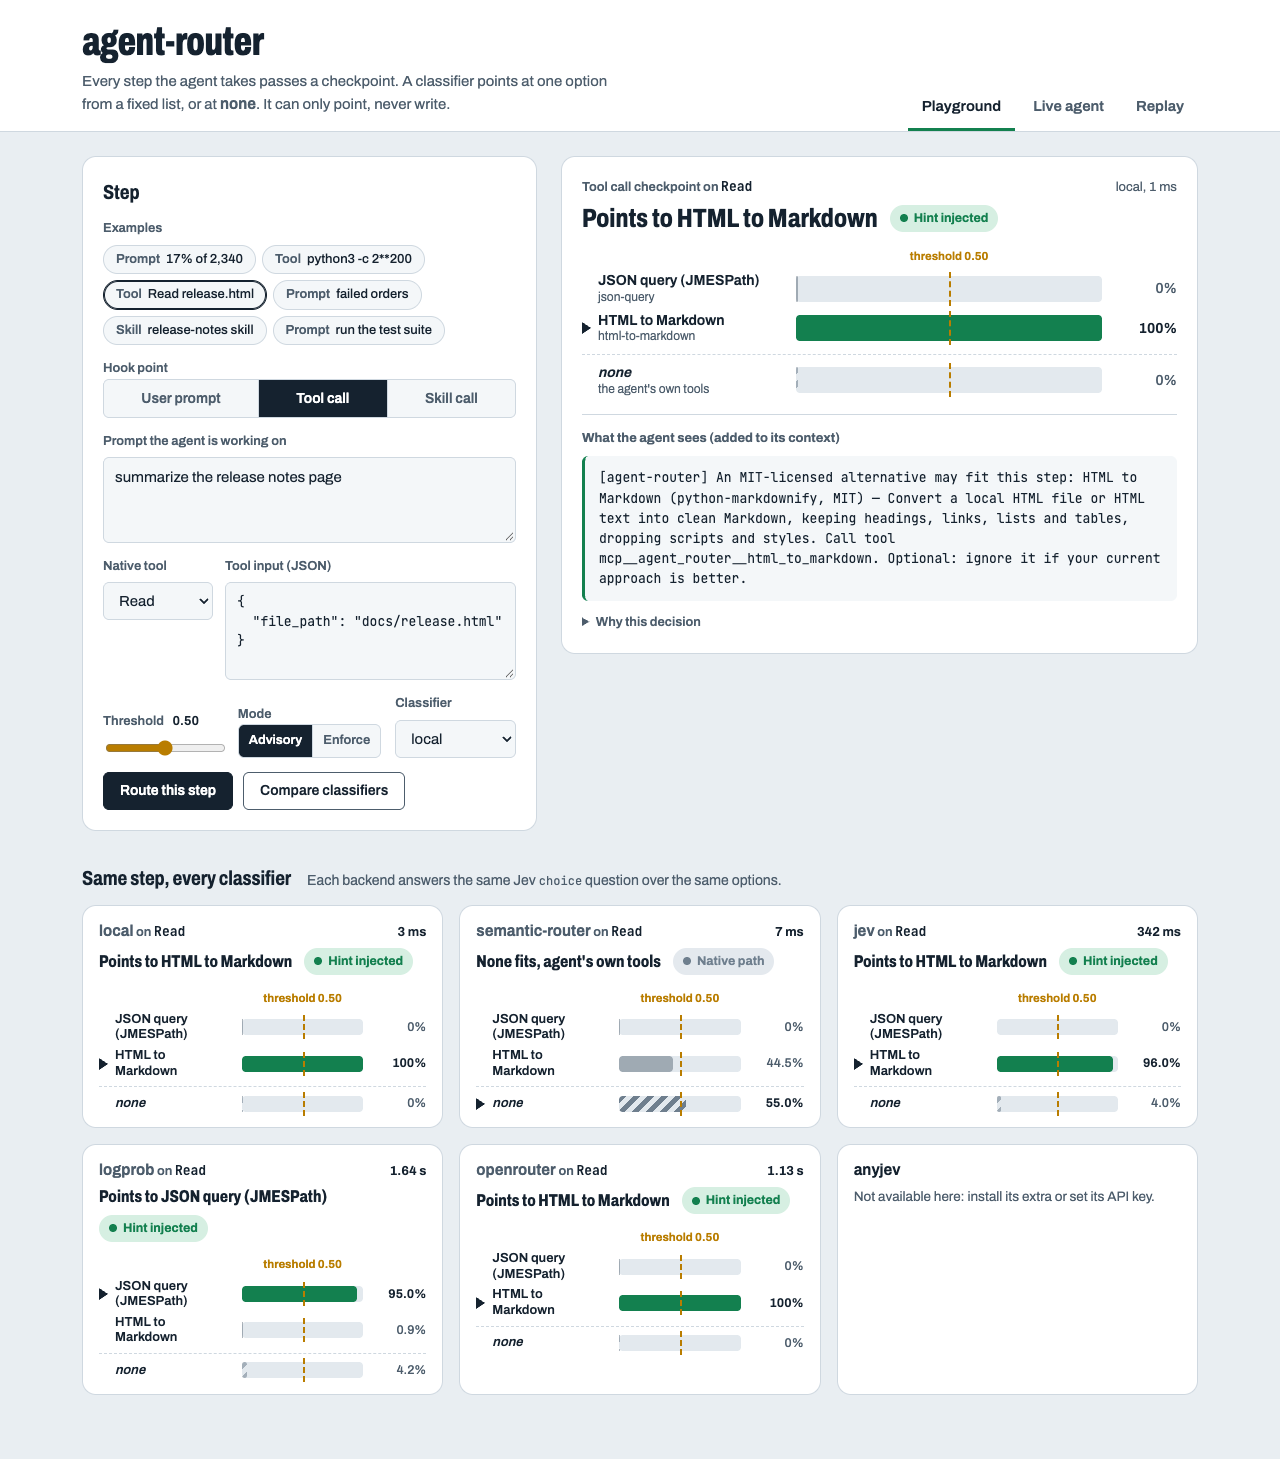
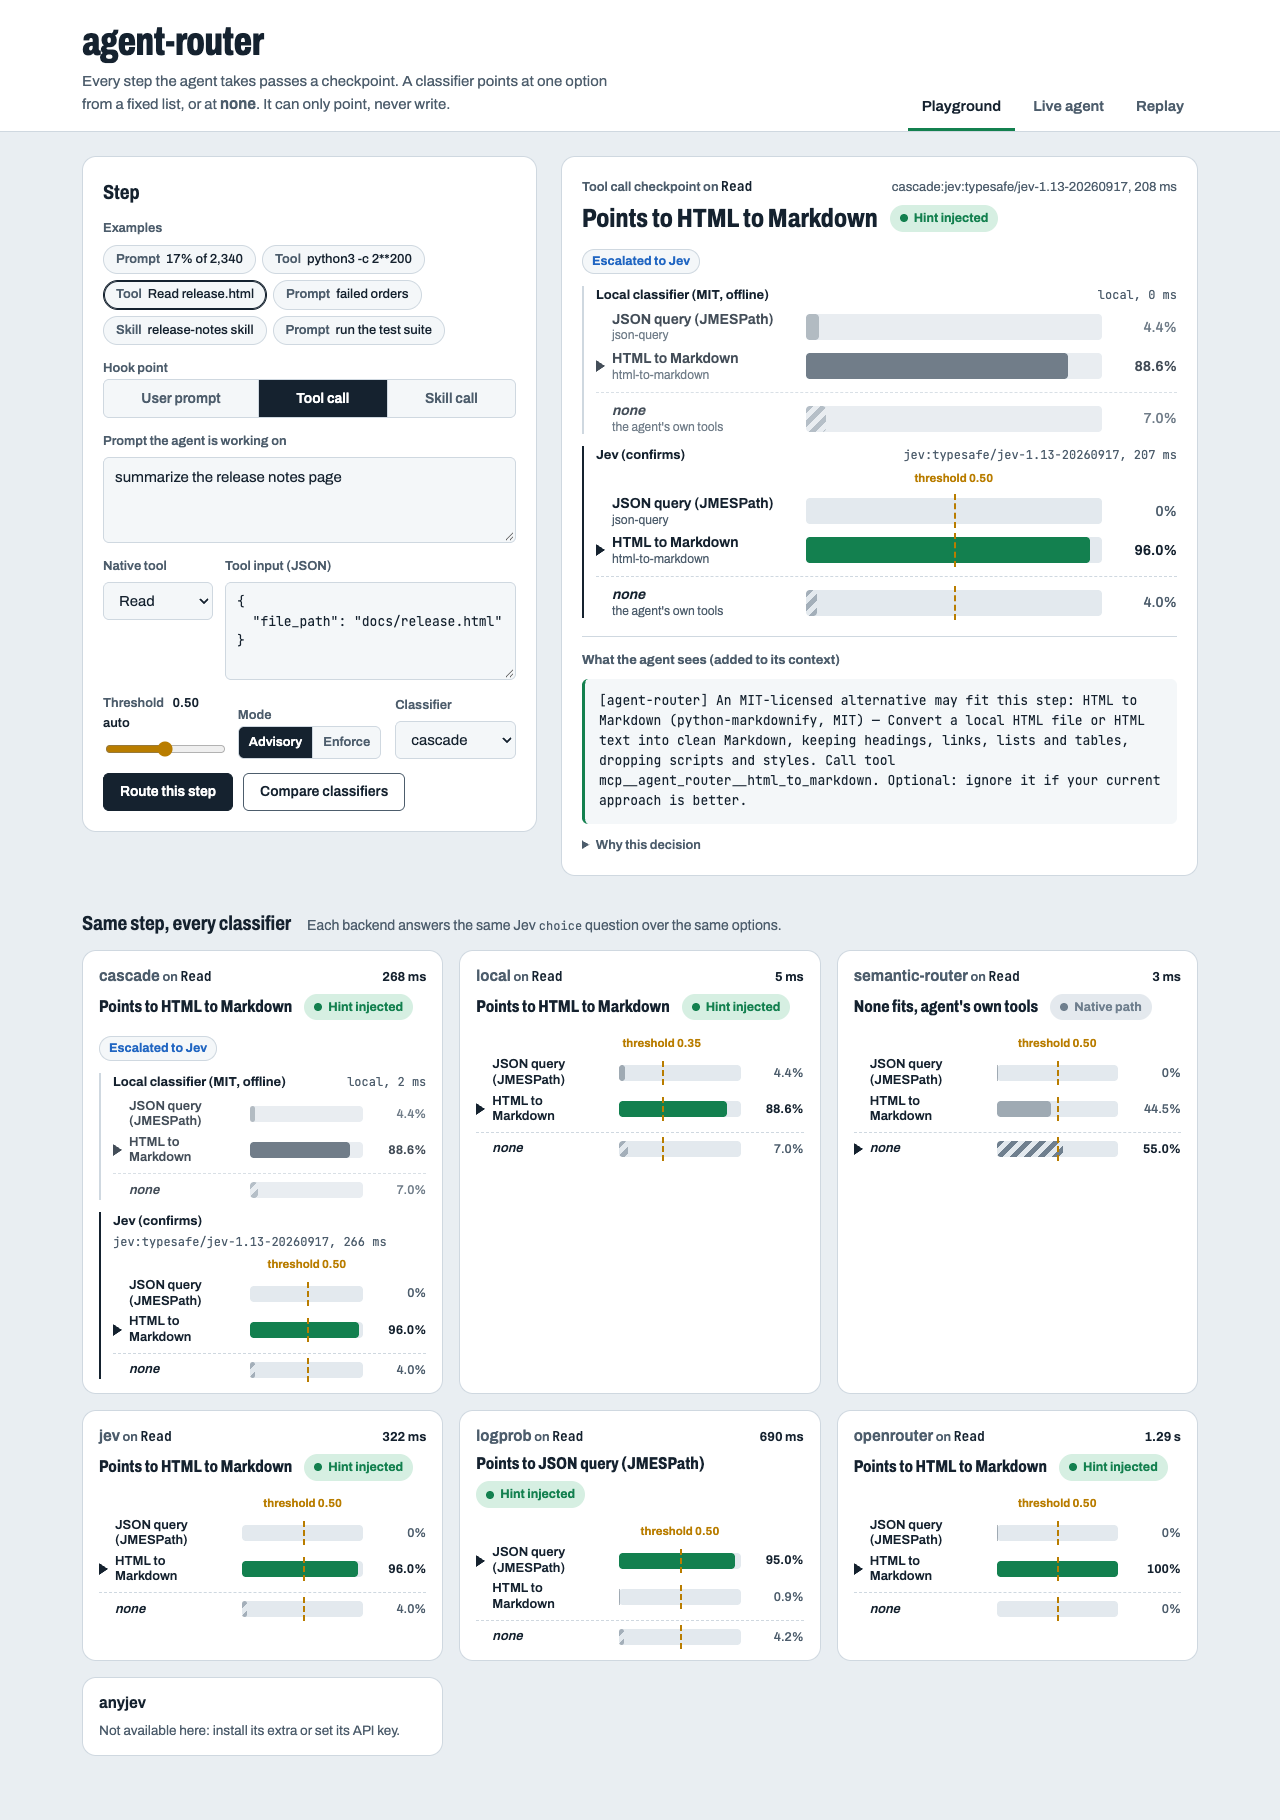
feat(demo): show cascade stages and per-backend calibrated thresholds
A cascade decision renders the local classifier's bars, then Jev's, with an
"Escalated to Jev" / "Answered locally" / "Jev failed: local fallback"
marker; only the deciding stage carries the threshold line. Until the
slider is moved, each backend routes at its own calibrated threshold.
Screenshots refreshed with the cascade as the default classifier.

diff --git a/src/agent_router/demo/static/app.js b/src/agent_router/demo/static/app.js
@@ -10,6 +10,7 @@ const state = {
   entries: new Map(), // id -> entry
   backends: [], // [{name, available}]
   threshold: 0.5,
+  thrTouched: false, // until the slider moves, each backend routes at its own calibrated threshold
 };
 
 const PRESETS = [
@@ -98,6 +99,7 @@ function toCheckpoint(src) {
     optionIds,
     confidence: (result && result.confidence) ?? src.confidence ?? null,
     backend: (result && result.backend) || src.backend || null,
+    stages: (result && result.stages) || src.stages || [],
     latency: src.latency_ms ?? (result && result.latency_ms) ?? null,
     hint: src.hint || null,
     hintRestored: !!src.hint_restored,
@@ -153,16 +155,19 @@ function richText(text) {
 
 /* -- rendering ------------------------------------------------------------- */
 
-function renderBars(cp, t) {
+/** Bars for one distribution. `showThr=false` for a cascade stage that did not decide. */
+function renderBars(cp, t, showThr = true) {
   const bars = el("div", { class: "bars", role: "list", "aria-label": "Probability per option" });
   const thr = Math.max(0, Math.min(1, cp.threshold));
   const edge = thr < 0.08 ? "edge-l" : thr > 0.92 ? "edge-r" : "";
-  bars.append(
-    el("span"),
-    el("div", { class: "thr-head", "aria-hidden": "true" },
-      el("span", { class: `thr-tag ${edge}`, style: `left:${thr * 100}%`, text: `threshold ${thr.toFixed(2)}` })),
-    el("span"),
-  );
+  if (showThr) {
+    bars.append(
+      el("span"),
+      el("div", { class: "thr-head", "aria-hidden": "true" },
+        el("span", { class: `thr-tag ${edge}`, style: `left:${thr * 100}%`, text: `threshold ${thr.toFixed(2)}` })),
+      el("span"),
+    );
+  }
   cp.optionIds.forEach((id) => {
     const isNone = id === "none";
     if (isNone && cp.optionIds.length > 1) bars.append(el("div", { class: "bar-sep", "aria-hidden": "true" }));
@@ -179,13 +184,46 @@ function renderBars(cp, t) {
         el("span", { class: "nm", text: isNone ? "none" : meta.name }),
         el("span", { class: "id", text: isNone ? "the agent's own tools" : id })),
       el("div", { class: "bar-track" }, fill,
-        el("span", { class: "thr-mark", style: `left:${thr * 100}%`, "aria-hidden": "true" })),
+        showThr ? el("span", { class: "thr-mark", style: `left:${thr * 100}%`, "aria-hidden": "true" }) : null),
       el("div", { class: "bar-val", text: Object.keys(cp.probabilities).length ? pct(p) : "–" }),
     );
     bars.append(row);
     requestAnimationFrame(() => { fill.style.width = `${Math.max(p * 100, p > 0 ? 0.6 : 0)}%`; });
   });
   return bars;
+}
+
+/* -- cascade stages (local classifier, then Jev) --------------------------------- */
+
+const STAGE_NAMES = { primary: "Local classifier (MIT, offline)", confirm: "Jev (confirms)" };
+
+function cascadeNote(cp) {
+  if (cp.backend === "cascade:local") return { cls: "local", text: "Answered locally", why: "The local classifier was confidently none; Jev was not asked." };
+  if (cp.backend === "cascade:local-fallback") return { cls: "fallback", text: "Jev failed: local fallback", why: "Escalated, but Jev failed: the local answer is used, biased to none." };
+  return { cls: "escalated", text: "Escalated to Jev", why: "The local answer was not a confident none, so Jev confirms." };
+}
+
+/** One labelled bar set per stage; only the deciding one shows the router threshold. */
+function renderStages(cp, t) {
+  const note = cascadeNote(cp);
+  const box = el("div", { class: "stages" }, el("p", { class: `stage-note ${note.cls}`, text: note.text, title: note.why }));
+  const fallback = cp.backend === "cascade:local-fallback";
+  cp.stages.forEach((st, i) => {
+    const deciding = !fallback && i === cp.stages.length - 1;
+    const head = el("div", { class: "stage-head" },
+      el("span", { class: "stage-name", text: STAGE_NAMES[st.role] || st.role }),
+      el("span", { class: "stage-meta", text: [st.backend, st.latency_ms != null ? ms(st.latency_ms) : null].filter(Boolean).join(", ") }));
+    const body = st.error
+      ? el("p", { class: "cmp-off", text: `Failed: ${st.error}` })
+      : renderBars({ ...cp, probabilities: st.probabilities || {}, choice: st.choice }, deciding ? t : "stage", deciding);
+    box.append(el("section", { class: `stage${deciding ? " deciding" : ""}` }, head, body));
+  });
+  if (fallback) {
+    box.append(el("section", { class: "stage deciding" },
+      el("div", { class: "stage-head" }, el("span", { class: "stage-name", text: "Fallback answer" })),
+      renderBars(cp, t)));
+  }
+  return box;
 }
 
 function renderSees(cp, t) {
@@ -234,7 +272,8 @@ function renderCheckpoint(root, src, opts = {}) {
     el("div", { class: "cp-head" }, where, meta),
     el("div", { class: "verdict" }, el("h3", { text: v.title }), el("span", { class: `pill ${t}`, text: v.pill })),
   );
-  if (cp.optionIds.length) root.append(renderBars(cp, t));
+  if (cp.stages.length) root.append(renderStages(cp, t));
+  else if (cp.optionIds.length) root.append(renderBars(cp, t));
   if (opts.compact) {
     if (opts.extra) root.append(opts.extra);
     if (t === "error" && cp.reason) root.append(el("p", { class: "cmp-off", text: cp.reason }));
@@ -286,8 +325,17 @@ function readStep() {
     }
   }
   step.mode = $("input[name=mode]:checked", form).value;
-  step.threshold = Number($("#threshold").value);
+  // untouched slider: the server applies the backend's own (calibrated) threshold
+  step.threshold = state.thrTouched ? Number($("#threshold").value) : null;
   return step;
+}
+
+/** Show the threshold the server used while the slider is untouched (backend default). */
+function showThreshold(thr) {
+  if (thr == null) return;
+  $("#threshold").value = thr;
+  $("#thr-out").textContent = `${Number(thr).toFixed(2)} auto`;
+  $("#thr-out").title = "The classifier's own calibrated threshold. Move the slider to override it.";
 }
 
 function showFormError(msg) {
@@ -314,6 +362,7 @@ async function runRoute() {
   try {
     const res = await route(step, $("#backend").value || "local");
     if (seq !== routeSeq) return;
+    if (!state.thrTouched) showThreshold(res.threshold);
     renderCheckpoint(board, res);
   } catch (err) {
     if (seq === routeSeq) showFormError(`Routing failed: ${err.message}`);
@@ -363,6 +412,7 @@ function initPlayground() {
   $("#compare-btn").addEventListener("click", runCompare);
   let slideTimer;
   $("#threshold").addEventListener("input", (e) => {
+    state.thrTouched = true;
     $("#thr-out").textContent = Number(e.target.value).toFixed(2);
     clearTimeout(slideTimer);
     slideTimer = setTimeout(runRoute, 120);
@@ -604,8 +654,7 @@ async function boot() {
   $("#shell-note").textContent = catalog.live && catalog.live.allow_shell
     ? "Shell and web tools (Bash, WebFetch) are enabled: the server was started with allow_shell."
     : "Shell and web tools (Bash, WebFetch) are disabled. The router still sees those calls first; the SDK then refuses them. Start the server with --allow-shell to enable them.";
-  $("#threshold").value = catalog.threshold;
-  $("#thr-out").textContent = catalog.threshold.toFixed(2);
+  showThreshold(catalog.threshold);
   if (catalog.mode === "enforce") $("input[name=mode][value=enforce]").checked = true;
   for (const sel of [$("#backend"), $("#live-backend")]) {
     sel.replaceChildren(...state.backends.map((b) => el("option", { value: b.name, disabled: !b.available },

diff --git a/src/agent_router/demo/static/app.css b/src/agent_router/demo/static/app.css
@@ -216,6 +216,21 @@ button:disabled { opacity: 0.55; cursor: progress; }
 .why dt { font-weight: 600; }
 .why dd { margin: 0; overflow-wrap: anywhere; }
 
+/* cascade: the local stage, then Jev; only the deciding stage carries the threshold */
+.stages { display: grid; gap: 12px; }
+.stage-note {
+  margin: 0; justify-self: start; font-size: 12.5px; font-weight: 700;
+  padding: 3px 10px; border-radius: 999px; background: var(--none-soft); color: var(--ink-2);
+}
+.stage-note.escalated { color: var(--focus); background: var(--panel-2); box-shadow: inset 0 0 0 1px var(--rule); }
+.stage-note.fallback { color: var(--stop); background: var(--stop-soft); }
+.stage { border-left: 2px solid var(--rule); padding-left: 12px; }
+.stage.deciding { border-left-color: var(--ink); }
+.stage:not(.deciding) .bars { opacity: 0.8; }
+.stage-head { display: flex; flex-wrap: wrap; align-items: baseline; justify-content: space-between; gap: 2px 12px; margin-bottom: 6px; }
+.stage-name { font-size: 13px; font-weight: 700; }
+.stage-meta { font-size: 12px; color: var(--ink-2); font-family: var(--mono); overflow-wrap: anywhere; }
+
 .board-empty { color: var(--ink-2); padding: 30px 0; text-align: center; }
 .loading { opacity: 0.55; transition: opacity 120ms; }
 
